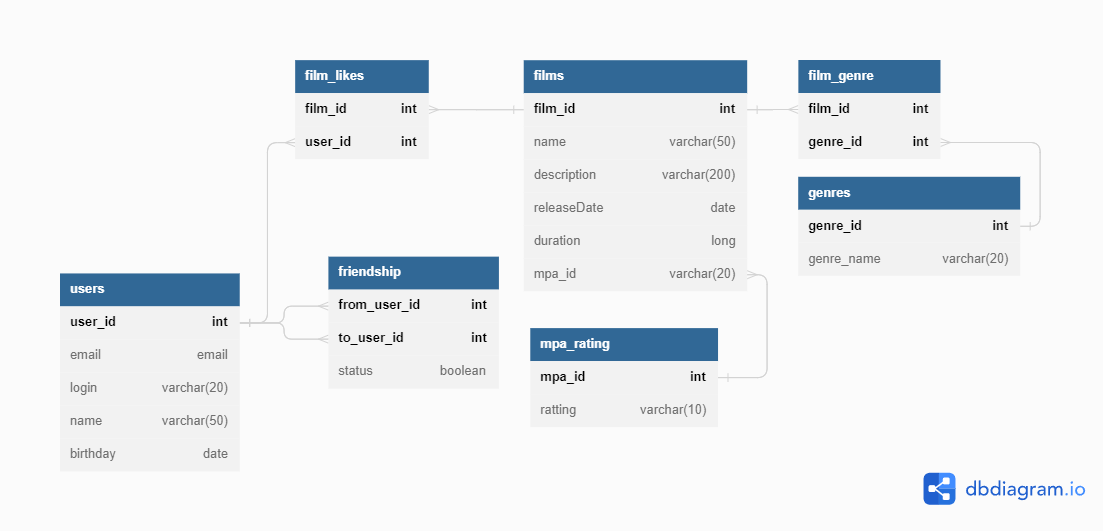
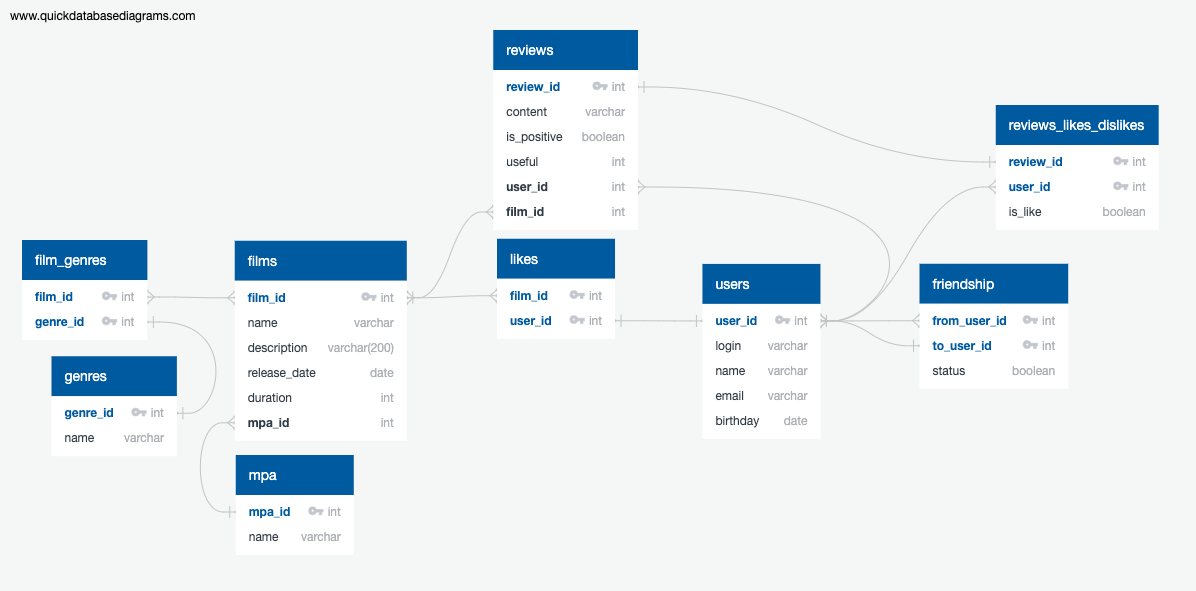
feat: начал добавлять новую функциональность «Отзывы»

diff --git a/src/main/java/ru/yandex/practicum/filmorate/storage/impl/ReviewDbStorage.java b/src/main/java/ru/yandex/practicum/filmorate/storage/impl/ReviewDbStorage.java
@@ -1,0 +1,58 @@
+package ru.yandex.practicum.filmorate.storage.impl;
+
+import lombok.extern.slf4j.Slf4j;
+import org.springframework.jdbc.core.JdbcTemplate;
+import org.springframework.jdbc.core.simple.SimpleJdbcInsert;
+import org.springframework.stereotype.Repository;
+import ru.yandex.practicum.filmorate.exception.FilmNotFoundException;
+import ru.yandex.practicum.filmorate.exception.ReviewNotFoundException;
+import ru.yandex.practicum.filmorate.mapper.ReviewMapper;
+import ru.yandex.practicum.filmorate.model.Review;
+
+import java.sql.PreparedStatement;
+
+@Repository
+@Slf4j
+public class ReviewDbStorage {
+    private final JdbcTemplate jdbcTemplate;
+    private final ReviewMapper reviewMapper;
+
+    public ReviewDbStorage(JdbcTemplate jdbcTemplate) {
+        this.jdbcTemplate = jdbcTemplate;
+        this.reviewMapper = new ReviewMapper(jdbcTemplate);
+    }
+
+    public Review create(Review review) throws ReviewNotFoundException {
+        /*SimpleJdbcInsert simpleJdbcInsert = new SimpleJdbcInsert(jdbcTemplate)
+                .withTableName("films")
+                .usingGeneratedKeyColumns("film_id");
+
+        int filmId = simpleJdbcInsert.executeAndReturnKey(film.toMap(film)).intValue();
+
+        if (film.getGenres() != null) {
+            jdbcTemplate.batchUpdate(
+                    "INSERT INTO FILMS_GENRES(FILM_ID, GENRE_ID) VALUES (?, ?)",
+                    film.getGenres(),
+                    film.getGenres().size(),
+                    (PreparedStatement ps, Genre genre) -> {
+                        ps.setInt(1, filmId);
+                        ps.setInt(2, genre.getId());
+                    });
+        }
+
+        if (film.getLikes() != null) {
+            jdbcTemplate.batchUpdate(
+                    "INSERT INTO FILMS_LIKES(FILM_ID, USER_ID) VALUES (?, ?)",
+                    film.getLikes(),
+                    film.getLikes().size(),
+                    (PreparedStatement ps, Integer likeId) -> {
+                        ps.setInt(1, filmId);
+                        ps.setInt(2, likeId);
+                    });
+        }
+
+        log.info("Создан фильм: {}", getFilmById(filmId));*/
+
+        return null;
+    }
+}

diff --git a/src/main/java/ru/yandex/practicum/filmorate/controller/ReviewController.java b/src/main/java/ru/yandex/practicum/filmorate/controller/ReviewController.java
@@ -1,0 +1,26 @@
+package ru.yandex.practicum.filmorate.controller;
+
+import lombok.AllArgsConstructor;
+import org.springframework.web.bind.annotation.PostMapping;
+import org.springframework.web.bind.annotation.RequestBody;
+import org.springframework.web.bind.annotation.RestController;
+import ru.yandex.practicum.filmorate.exception.FilmNotFoundException;
+import ru.yandex.practicum.filmorate.exception.ReviewNotFoundException;
+import ru.yandex.practicum.filmorate.exception.ValidationException;
+import ru.yandex.practicum.filmorate.model.Review;
+import ru.yandex.practicum.filmorate.service.FilmService;
+import ru.yandex.practicum.filmorate.service.ReviewService;
+
+import javax.validation.Valid;
+import java.time.LocalDate;
+
+@RestController
+@AllArgsConstructor
+public class ReviewController {
+    private final ReviewService reviewService;
+
+    @PostMapping("/reviews")
+    public Review postReview(@Valid @RequestBody Review review) throws ValidationException, ReviewNotFoundException {
+        return reviewService.create(review);
+    }
+}

diff --git a/src/main/java/ru/yandex/practicum/filmorate/model/Review.java b/src/main/java/ru/yandex/practicum/filmorate/model/Review.java
@@ -1,0 +1,27 @@
+package ru.yandex.practicum.filmorate.model;
+
+import lombok.Builder;
+import lombok.Data;
+
+import javax.validation.constraints.Digits;
+import javax.validation.constraints.NotNull;
+import java.util.Map;
+import java.util.Set;
+
+@Data
+@Builder
+public class Review {
+    private int reviewId;
+    @NotNull(message = "Текст отсутствует.")
+    private String content;
+    @NotNull(message = "Тип отзыва отсутствует.")
+    private Boolean isPositive;
+    @Digits(integer = 2_147_483_647, fraction = 1)
+    @NotNull(message = "Пользователь отсутствует.")
+    private int userId;
+    @Digits(integer = 2_147_483_647, fraction = 1)
+    @NotNull(message = "Фильм отсутствует.")
+    private int filmId;
+    private Integer useful;
+    private Map<Boolean, Set<Integer>> likes;
+}

diff --git a/src/main/java/ru/yandex/practicum/filmorate/service/ReviewService.java b/src/main/java/ru/yandex/practicum/filmorate/service/ReviewService.java
@@ -1,0 +1,19 @@
+package ru.yandex.practicum.filmorate.service;
+
+import lombok.AllArgsConstructor;
+import org.springframework.stereotype.Service;
+import ru.yandex.practicum.filmorate.exception.FilmNotFoundException;
+import ru.yandex.practicum.filmorate.exception.ReviewNotFoundException;
+import ru.yandex.practicum.filmorate.model.Review;
+import ru.yandex.practicum.filmorate.storage.FilmStorage;
+import ru.yandex.practicum.filmorate.storage.impl.ReviewDbStorage;
+
+@Service
+@AllArgsConstructor
+public class ReviewService {
+    private final ReviewDbStorage reviewDbStorage;
+
+    public Review create(Review review) throws ReviewNotFoundException {
+        return reviewDbStorage.create(review);
+    }
+}

diff --git a/src/main/java/ru/yandex/practicum/filmorate/storage/impl/FilmDbStorage.java b/src/main/java/ru/yandex/practicum/filmorate/storage/impl/FilmDbStorage.java
@@ -55,7 +55,12 @@ public class FilmDbStorage implements FilmStorage {
         String sqlRequest = "SELECT f.*, m.name as mpa_name"
                 +" FROM films f"
                 +" LEFT JOIN mpa m ON f.mpa_id = m.mpa_id";
-        List<Film> films = jdbcTemplate.query(sqlRequest, FilmMapper::mapToFilm);
+        List<Film> films = jdbcTemplate.query(sqlRequest, new RowMapper<Film>() {
+            @Override
+            public Film mapRow(ResultSet rs, int rowNum) throws SQLException {
+                return FilmMapper.mapToFilm(rs, rowNum);
+            }
+        });
         setGenresAndLikes(films);
         return films;
     }

diff --git a/src/main/java/ru/yandex/practicum/filmorate/model/Film.java b/src/main/java/ru/yandex/practicum/filmorate/model/Film.java
@@ -4,7 +4,6 @@ import java.time.LocalDate;
 import java.util.*;
 
 import com.fasterxml.jackson.annotation.JsonFormat;
-import com.fasterxml.jackson.annotation.JsonIgnore;
 import lombok.AccessLevel;
 import lombok.Data;
 import lombok.experimental.FieldDefaults;
@@ -31,6 +30,7 @@ public class Film {
     Long duration;
     @NotNull
     Mpa mpa = new Mpa();
+    Review review;
 
     Set<Integer> likes = new HashSet<>();
     Set<Genre> genres = new HashSet<>();

diff --git a/src/main/java/ru/yandex/practicum/filmorate/handler/ErrorHandler.java b/src/main/java/ru/yandex/practicum/filmorate/handler/ErrorHandler.java
@@ -22,7 +22,8 @@ public class ErrorHandler {
     @ExceptionHandler({FilmNotFoundException.class,
             UserNotFoundException.class,
             GenreNotFoundException.class,
-            MpaNotFoundedException.class}
+            MpaNotFoundedException.class,
+            ReviewNotFoundException.class}
     )
     @ResponseStatus(HttpStatus.NOT_FOUND)
     public ErrorResponse handleNotFoundException(final InvalidIdException e) {

diff --git a/src/main/java/ru/yandex/practicum/filmorate/mapper/ReviewMapper.java b/src/main/java/ru/yandex/practicum/filmorate/mapper/ReviewMapper.java
@@ -1,0 +1,11 @@
+package ru.yandex.practicum.filmorate.mapper;
+
+import lombok.AllArgsConstructor;
+import lombok.extern.slf4j.Slf4j;
+import org.springframework.jdbc.core.JdbcTemplate;
+
+@Slf4j
+@AllArgsConstructor
+public class ReviewMapper {
+    private final JdbcTemplate jdbcTemplate;
+}

diff --git a/src/main/java/ru/yandex/practicum/filmorate/exception/ReviewNotFoundException.java b/src/main/java/ru/yandex/practicum/filmorate/exception/ReviewNotFoundException.java
@@ -1,0 +1,7 @@
+package ru.yandex.practicum.filmorate.exception;
+
+public class ReviewNotFoundException extends RuntimeException {
+    public ReviewNotFoundException(final String message) {
+        super(message);
+    }
+}
